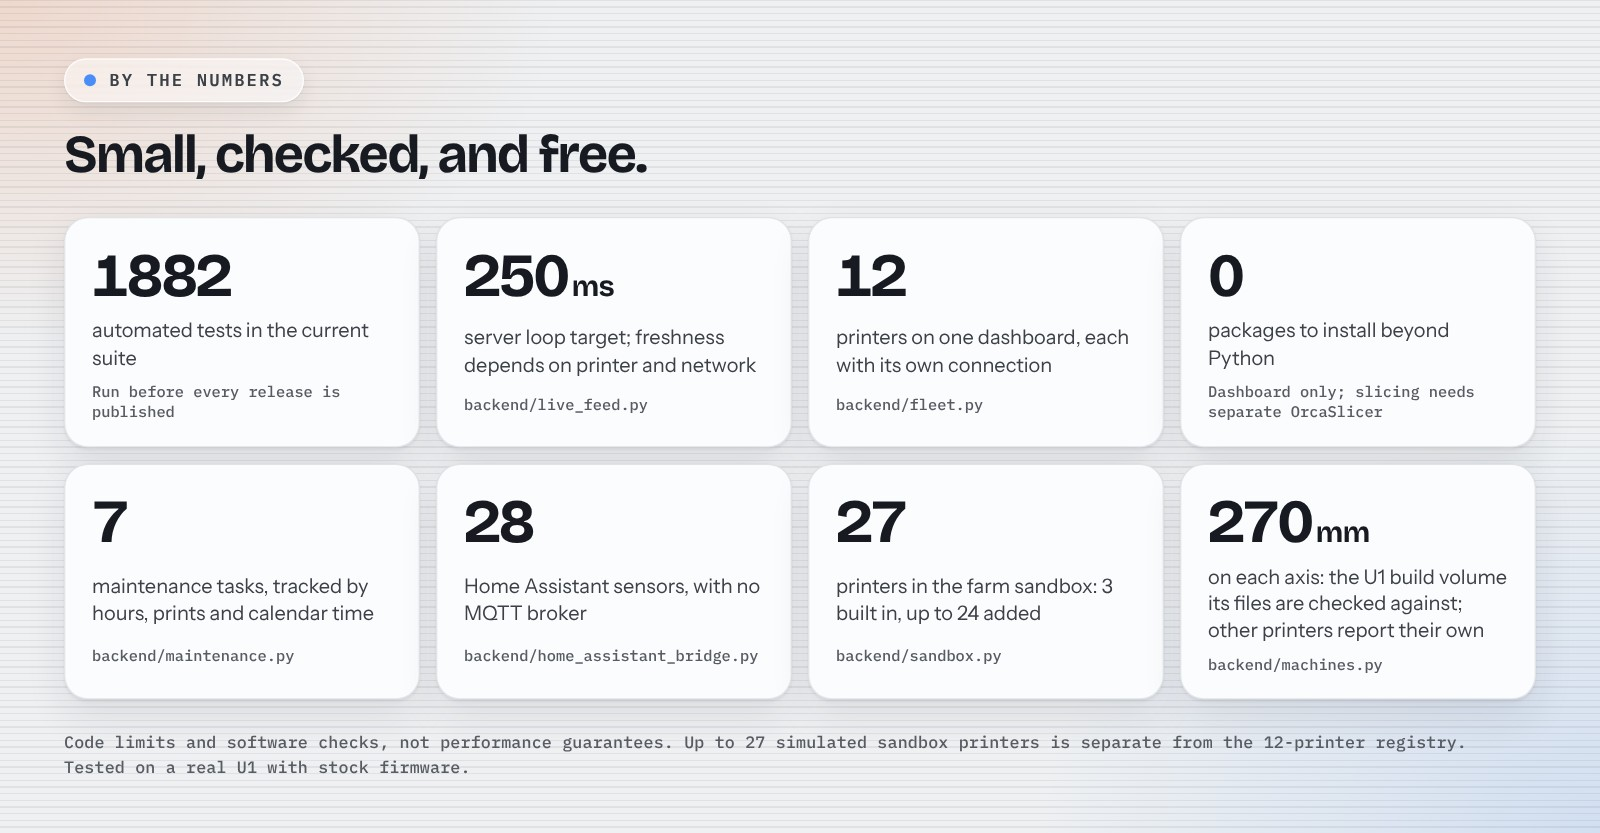
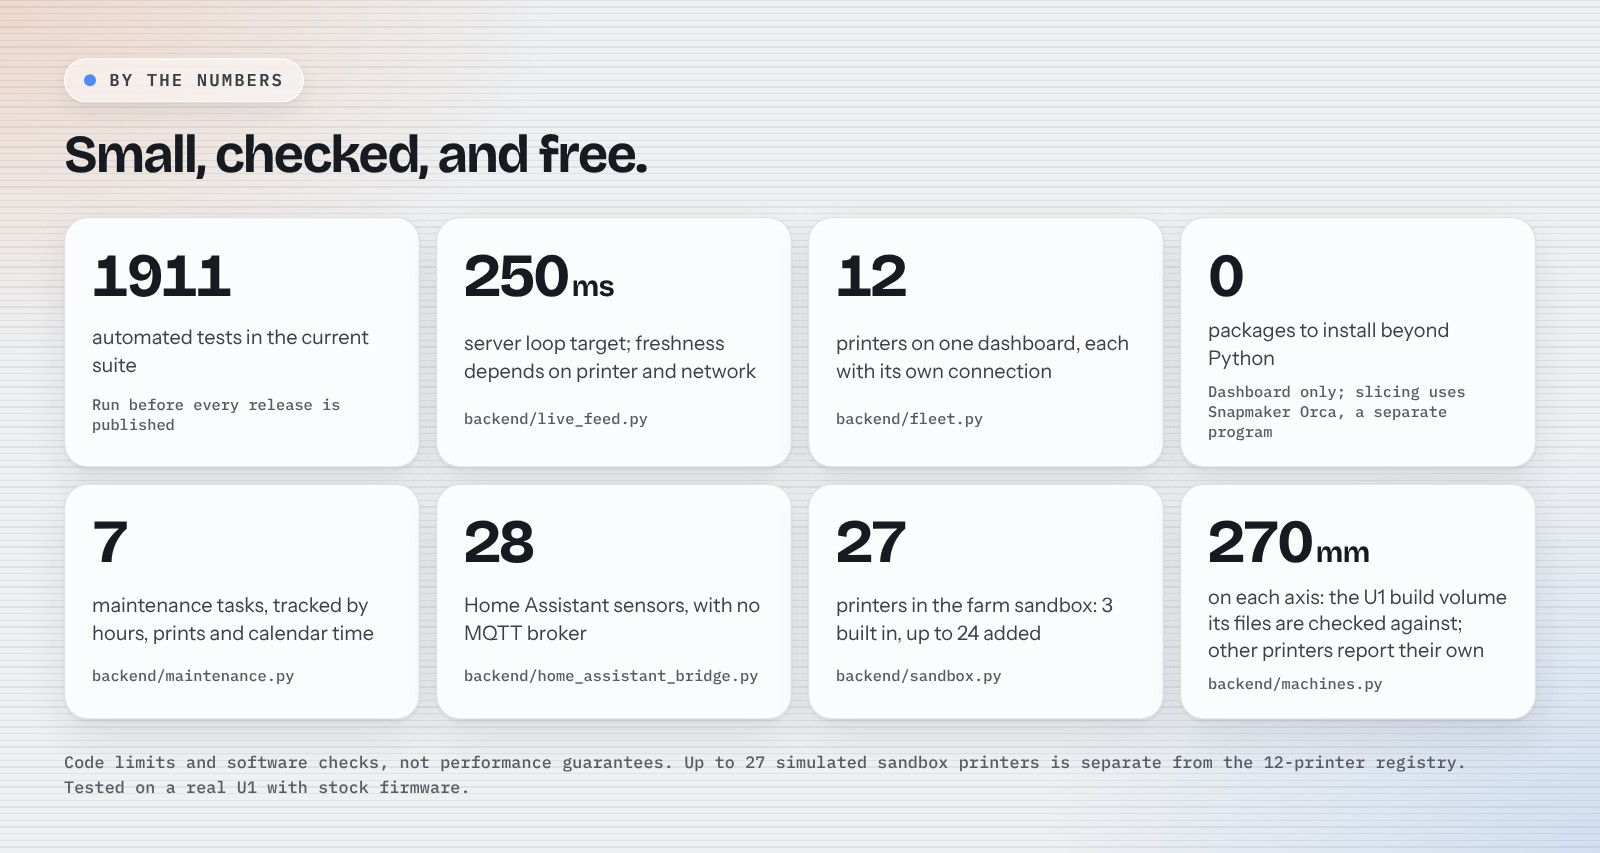
Slicer: keep the plate when the page reloads at once, fix tests that named the old screens, refresh the explainer boards
A reload or a closed tab right after a change now writes the waiting project
save first. The browser walk checks the Slicer instead of the old set-up card,
the settings-file test replaces the path where it is read, the stylesheet
order test lists slicer.css, tester code pointers name existing files, and the
By the numbers and What's in it boards show the new count and the Slicer.

Claude-Session: https://claude.ai/code/session_014V6s4t5RBwsf8ByAcpE2F9

diff --git a/tools/readme-images/boards.html b/tools/readme-images/boards.html
@@ -278,7 +278,7 @@ h2{font:700 40px/1.06 "Bricolage Grotesque";letter-spacing:-.03em;margin-top:18p
   <p class="lede">Core app: Python and a browser. Tested on a real U1 with stock firmware.</p>
   <div class="groups">
     <div class="group" style="--c:var(--g-live)"><header><h3>Watch the fleet</h3></header><span class="needs">Reported printer state</span><ul><li>Needs you: faults and paused jobs</li><li>Progress and finish estimates</li><li>3D twin and drawing</li><li>Up to 12 registered printers</li></ul></div>
-    <div class="group" style="--c:var(--g-ready)"><header><h3>Prepare a plate</h3></header><span class="needs">Separate compatible engine</span><ul><li>STL, OBJ and supported 3MF</li><li>Object edits and T0–T3 assignments</li><li>Profiles and per-object settings</li><li>Select one source-project plate</li></ul></div>
+    <div class="group" style="--c:var(--g-ready)"><header><h3>Slice on the U1's plate</h3></header><span class="needs">Snapmaker Orca (a separate program)</span><ul><li>STL, OBJ and supported 3MF</li><li>Object edits and T0–T3 assignments</li><li>118 print settings, a layer height per head</li><li>Preview the layers before Confirm Print</li></ul></div>
     <div class="group" style="--c:var(--g-farm)"><header><h3>Inspect before starting</h3></header><span class="needs">File and printer checks</span><ul><li>Layers, tools and requested speeds</li><li>Pre-flight with line references</li><li>Confirm Print rechecks at start</li><li>Blocked output stays inspectable</li></ul></div>
     <div class="group" style="--c:var(--g-opt)"><header><h3>Add your own services</h3></header><span class="needs">Configure when needed</span><ul><li>Notifications and automations</li><li>Spoolman import and inventory</li><li>WLED and Home Assistant</li><li>Camera bridges and remote access</li></ul></div>
     <div class="group" style="--c:var(--g-pend)"><header><h3>What comes next</h3></header><span class="needs">Tested on a real U1; hardware in progress</span><ul><li>Colour checker hardware in progress</li><li>Dock-ring drivers in progress</li><li>Colour accuracy bench test next</li><li>More vendor paint and textures</li></ul></div>
@@ -295,7 +295,7 @@ h2{font:700 40px/1.06 "Bricolage Grotesque";letter-spacing:-.03em;margin-top:18p
     <div class="tile"><b>1911</b><span>automated tests in the current suite</span><em>Run before every release is published</em></div>
     <div class="tile"><b>250<small>ms</small></b><span>server loop target; freshness depends on printer and network</span><em>backend/live_feed.py</em></div>
     <div class="tile"><b>12</b><span>printers on one dashboard, each with its own connection</span><em>backend/fleet.py</em></div>
-    <div class="tile"><b>0</b><span>packages to install beyond Python</span><em>Dashboard only; slicing needs separate OrcaSlicer</em></div>
+    <div class="tile"><b>0</b><span>packages to install beyond Python</span><em>Dashboard only; slicing uses Snapmaker Orca, a separate program</em></div>
     <div class="tile"><b>7</b><span>maintenance tasks, tracked by hours, prints and calendar time</span><em>backend/maintenance.py</em></div>
     <div class="tile"><b>28</b><span>Home Assistant sensors, with no MQTT broker</span><em>backend/home_assistant_bridge.py</em></div>
     <div class="tile"><b>27</b><span>printers in the farm sandbox: 3 built in, up to 24 added</span><em>backend/sandbox.py</em></div>

diff --git a/tools/browser-walk.js b/tools/browser-walk.js
@@ -21,7 +21,7 @@
  * Workflows (demo data, both widths): import a file through the file picker; open every sample G-code file
  * in Confirm Print and check the verdict is complete and that "blocked" really disables Start; a slow answer
  * for an earlier file must not replace the one on screen; add to and remove from the queue; open a model;
- * the slicer set-up card; the phone pairing sheet; the colour sensor on a stand-in printer (tools/stand-in-printer.py):
+ * the Slicer and its Engine button; the phone pairing sheet; the colour sensor on a stand-in printer (tools/stand-in-printer.py):
  * assign it, record a white reference with the real button, and see the sensor beside the file's and the printer's
  * colours in Confirm Print; text from files, printers, spools and notes shows as plain text (script payloads are
  * planted in each, after a control that proves the check can see an injection).
@@ -342,24 +342,24 @@ const FLOWS = [
   ['open a model', async s => {
     const { page } = s;
     await openFileNamed(page, 'spur_gear_24t.stl');
-    await page.waitForFunction(() => /Object settings/.test(document.getElementById('fd-side').innerText), null, { timeout: 15000 }).catch(() => {});
+    await page.waitForFunction(() => /Open in Slicer/.test(document.getElementById('fd-side').innerText), null, { timeout: 15000 }).catch(() => {});
     const side = await page.evaluate(() => document.getElementById('fd-side').innerText);
-    s.check(/Object settings/.test(side), 'the model panel did not finish loading: "' + side.slice(0, 50).replace(/\s+/g, ' ') + '"');
+    s.check(/Open in Slicer/.test(side), 'the model panel did not finish loading: "' + side.slice(0, 50).replace(/\s+/g, ' ') + '"');
     s.check(await page.evaluate(() => !!document.getElementById('fd-canvas')), 'no 3D view');
   }],
 
-  ['the slicer set-up card', async s => {
+  ['the Slicer and its engine', async s => {
     const { page } = s;
     await page.evaluate(() => {
       location.hash = '#/slice';
     });
-    await page.waitForTimeout(900);
+    await page.waitForFunction(() => { const d = document.getElementById('sl-dock'); return d && d.offsetParent && d.querySelectorAll('button').length >= 2; }, null, { timeout: 10000 }).catch(() => {});
     const info = await page.evaluate(() => {
-      const e = document.getElementById('slice-ready');
-      return { visible: !!(e && e.offsetParent), buttons: e ? e.querySelectorAll('button').length : 0, text: e ? e.innerText : '' };
+      const e = document.getElementById('sl-engine-btn'), d = document.getElementById('sl-dock');
+      return { engine: !!(e && e.offsetParent), words: e ? e.innerText : '', dock: !!(d && d.offsetParent), buttons: d ? d.querySelectorAll('button').length : 0 };
     });
-    s.check(info.visible && info.text.length > 60, 'the slicer set-up card is empty or hidden');
-    s.check(info.buttons >= 1, 'the slicer set-up card offers no button');
+    s.check(info.dock && info.engine && info.words.length > 3, 'the Slicer or its Engine button is empty or hidden');
+    s.check(info.buttons >= 2, 'the Slicer offers no controls: ' + JSON.stringify(info));
   }],
 
   ['the phone pairing sheet', async s => {

diff --git a/frontend/slicer-prepare.js b/frontend/slicer-prepare.js
@@ -626,15 +626,20 @@
      opens again. An object that was only read from a file on this computer has no copy to come back to, so it is left out. */
   const PKEY = 'dejavu1.slicer.project';
   let saveTimer = 0;
+  function writeProject() {
+    const m = P();
+    if (!m) return;
+    const rows = m.objects.filter(o => o.sourceName && !o.local).map(o => ({ source: o.sourceName, name: o.name, file: o.file, transform: o.transform, tool: o.tool, settings: o.settings, plate: o.plate, hidden: o.hidden, aside: o.aside }));
+    try { store.set(PKEY, JSON.stringify({ v: 1, plates: m.plates, current: m.current, rows })); } catch (_) { /* no storage */ }
+  }
   function saveProject() {
     clearTimeout(saveTimer);
-    saveTimer = setTimeout(() => {
-      const m = P();
-      if (!m) return;
-      const rows = m.objects.filter(o => o.sourceName && !o.local).map(o => ({ source: o.sourceName, name: o.name, file: o.file, transform: o.transform, tool: o.tool, settings: o.settings, plate: o.plate, hidden: o.hidden, aside: o.aside }));
-      try { store.set(PKEY, JSON.stringify({ v: 1, plates: m.plates, current: m.current, rows })); } catch (_) { /* no storage */ }
-    }, 600);
+    saveTimer = setTimeout(writeProject, 400);
   }
+  // A reload or a closed tab right after a change must not lose it, so a waiting save is written the moment the page is left.
+  const flushProject = () => { if (saveTimer) { clearTimeout(saveTimer); saveTimer = 0; writeProject(); } };
+  window.addEventListener('pagehide', flushProject);
+  document.addEventListener('visibilitychange', () => { if (document.visibilityState === 'hidden') flushProject(); });
   async function restoreProject() {
     let saved = null;
     try { saved = JSON.parse(store.get(PKEY) || 'null'); } catch (_) { saved = null; }
@@ -662,5 +667,5 @@
   }
   SL.restoreProject = restoreProject;
 
-  SL.prepare = { build, bindScene, bindObjects, saveProject, afterChange, renderObjects, renderInspector, renderProblems, renderPlates, renderEmpty, refreshTools, syncScene, onKey, setTool, note, toggleOverhang, TOWER_ID };
+  SL.prepare = { build, bindScene, bindObjects, saveProject, flushProject, afterChange, renderObjects, renderInspector, renderProblems, renderPlates, renderEmpty, refreshTools, syncScene, onKey, setTool, note, toggleOverhang, TOWER_ID };
 })();

diff --git a/frontend/slicer-scene.js b/frontend/slicer-scene.js
@@ -26,7 +26,7 @@ window.SliceScene = (() => {
   /* ---- matrices (column-major, as the graphics card wants them) ---------------------------------------------------------------- */
   const mat = {
     identity: () => [1, 0, 0, 0, 0, 1, 0, 0, 0, 0, 1, 0, 0, 0, 0, 1],
-    /* an object's transform is 12 numbers, the way plate.js keeps it: three rows of the turn and scale, then the move */
+    /* an object's transform is 12 numbers, the way plate_project.py keeps it: three rows of the turn and scale, then the move */
     fromTransform(t) { return [t[0], t[1], t[2], 0, t[3], t[4], t[5], 0, t[6], t[7], t[8], 0, t[9], t[10], t[11], 1]; },
     translate(x, y, z) { const m = mat.identity(); m[12] = x; m[13] = y; m[14] = z; return m; },
     scale(x, y, z) { const m = mat.identity(); m[0] = x; m[5] = y; m[10] = z; return m; },

diff --git a/tools/slicer-check.js b/tools/slicer-check.js
@@ -301,7 +301,7 @@ async function main() {
     {
       const c3 = await open(browser, server.base, { width: 1366, height: 800 });
       await c3.page.evaluate(async () => { await SL.openFromLibrary('3dbenchy.stl'); const m = SL.state.model; m.place(m.objects[0].id, { x: 100, y: 90 }); m.setTool([m.objects[0].id], 2); });
-      await c3.page.waitForTimeout(1200);
+      await c3.page.waitForFunction(() => { try { return /"tool":2/.test(localStorage.getItem('dejavu1.slicer.project') || ''); } catch (e) { return false; } }, null, { timeout: 15000 }).catch(() => {});
       await c3.page.reload({ waitUntil: 'domcontentloaded' });
       await c3.page.waitForFunction(() => window.SL && SL.state.model && SL.state.model.onPlate().length === 1, null, { timeout: 25000 }).catch(() => {});
       const back = await model(c3.page);

diff --git a/frontend/viewer3d.js b/frontend/viewer3d.js
@@ -763,7 +763,7 @@ const DV3D = (() => {
         this.draw();
       }, { passive: false });
       c.addEventListener('keydown', (e) => {
-        if (e.shiftKey || e.ctrlKey || e.metaKey || e.altKey) return;   // Shift + arrows move a plate object (plate.js)
+        if (e.shiftKey || e.ctrlKey || e.metaKey || e.altKey) return;   // Shift + arrows move a plate object (the Slicer's own keys)
         const step = { ArrowLeft: [-.12, 0], ArrowRight: [.12, 0], ArrowUp: [0, .08], ArrowDown: [0, -.08] }[e.key];
         if (step) { e.preventDefault(); this.yaw += step[0]; this.pitch = Math.max(-0.2, Math.min(1.5, this.pitch + step[1])); this.draw(); }
         if (e.key === '+' || e.key === '=') { this.dist *= 0.9; this.draw(); }

diff --git a/frontend/slicer-model.js b/frontend/slicer-model.js
@@ -2,7 +2,7 @@
  * every check that says what is wrong with the plate before it is sliced. No graphics and no network here, so it can be tested alone
  * (tests/test_slicer_model.py runs it in Node).
  *
- * An object's transform is 12 numbers, as plate.js and the server's plate_project.py keep it: three rows (the turn and size) and a
+ * An object's transform is 12 numbers, as the server's plate_project.py keeps it: three rows (the turn and size) and a
  * move, applied as  point' = point x rows + move. Moves and turns are made about the middle of the object's box.
  *
  * What it does not do: slicing, and the engine's own arranging and orienting (the server asks the engine for those). The packing

diff --git a/tools/check-native-studio.js b/tools/check-native-studio.js
@@ -1,4 +1,4 @@
-/* Historical stock-2.4.2 fixture check; current workflow: tools/check-slicer-workspace.js.
+/* Historical stock-2.4.2 fixture check; current workflow: tools/slicer-check.js.
    Development checks: node tools/check-native-studio.js URL OUTPUT_DIR */
 const {chromium}=require('playwright'),fs=require('fs'),assert=require('assert');
 const base=process.argv[2]||'http://localhost:8791',out=process.argv[3]||'/tmp/dejavu-evidence';

diff --git a/tests/test_slicer_working.py b/tests/test_slicer_working.py
@@ -16,6 +16,7 @@ from unittest.mock import patch
 sys.path.insert(0, str(Path(__file__).resolve().parent.parent / "backend"))
 
 import slicer_bridge  # noqa: E402
+import slicer_bridge_part1  # noqa: E402
 import slicer_profiles  # noqa: E402
 import slicer_working as work  # noqa: E402
 import tool_setup  # noqa: E402
@@ -40,11 +41,12 @@ class WorkingProfile(unittest.TestCase):
         self.write("process-other", {"type": "process", "name": "0.20mm Standard @Snapmaker U1 (0.6 nozzle)", "instantiation": "true", "layer_height": ".2",
                                      "compatible_printers": ["Snapmaker U1 (0.6 nozzle)"]})
         self.write("pla", {"type": "filament", "name": "Generic PLA @U1", "instantiation": "true", "filament_type": ["PLA"], "compatible_printers": ["Snapmaker U1 (0.4 nozzle)"]})
-        for target, value in ((slicer_bridge, "_DATA_DIR"), (slicer_profiles, "_DATA_DIR"), (tool_setup, "_DATA_DIR")):
+        # the settings file is read by functions in slicer_bridge_part1, so that is the module whose names are replaced
+        for target, value in ((slicer_bridge_part1, "_DATA_DIR"), (slicer_profiles, "_DATA_DIR"), (tool_setup, "_DATA_DIR")):
             p = patch.object(target, value, str(root / "data"))
             p.start()
             self.addCleanup(p.stop)
-        for target, name, value in ((slicer_bridge, "_PATH", str(root / "data" / "slicer.json")), (slicer_bridge, "_RECEIPTS", str(root / "data" / "r.json")),
+        for target, name, value in ((slicer_bridge_part1, "_PATH", str(root / "data" / "slicer.json")), (slicer_bridge_part1, "_RECEIPTS", str(root / "data" / "r.json")),
                                     (tool_setup, "_PATH", str(root / "data" / "tool_setup.json"))):
             p = patch.object(target, name, value)
             p.start()

diff --git a/backend/tester_report_part4.py b/backend/tester_report_part4.py
@@ -60,7 +60,7 @@ ROUTE_CODE = (("/api/printer/control/", ["backend/printer_control.py"]), ("/api/
 AREA_CODE = {"Overview": ["frontend/telemetry.js", "frontend/app-shell.js"], "Printers": ["frontend/desk.js", "frontend/workshop-part5.js"],
              "Printer page": ["frontend/workshop-part2.js", "frontend/workshop-part3.js", "frontend/workshop-part5.js"],
              "Files": ["frontend/workshop-part5.js", "frontend/gcode-view.js"],
-             "Slicing": ["frontend/farm-part1.js", "frontend/slicer-workspace.js", "frontend/plate.js"],
+             "Slicing": ["frontend/slicer-prepare.js", "frontend/slicer-settings.js", "frontend/slicer-preview.js"],
              "Queue": ["frontend/workshop-part4.js", "frontend/farm-part1.js"], "Filament": ["frontend/app-print.js"],
              "Maintenance": ["frontend/app-modules.js", "frontend/logbook.js"], "Settings": ["frontend/app-modules.js"],
              "Insights": ["frontend/insights.js"], "Care log": ["frontend/logbook.js"], "Camera": ["frontend/workshop-part3.js"],

diff --git a/tests/test_dark_theme.py b/tests/test_dark_theme.py
@@ -41,7 +41,7 @@ class TestDarkTheme(unittest.TestCase):
         head = INDEX[:INDEX.index("</head>")]
         self.assertIn('<script src="theme-boot.js"></script>', head)
         sheets = re.findall(r'<link rel="stylesheet" href="([^"]+)"', head)
-        self.assertEqual(sheets[-7:], ["dark.css", "shell.css", "shell-panes.css", "cockpit.css", "glass.css", "text.css", "looks.css"])   # the frame (shell.css) restyles after dark
+        self.assertEqual(sheets[-8:], ["dark.css", "shell.css", "shell-panes.css", "cockpit.css", "slicer.css", "glass.css", "text.css", "looks.css"])   # the frame (shell.css) restyles after dark
         self.assertLess(head.index('href="dark.css"'), head.index("theme-boot.js"))
         boot = read("theme-boot.js")
         self.assertNotIn("defer", INDEX[INDEX.index("theme-boot.js") - 40:INDEX.index("theme-boot.js") + 20])

diff --git a/tests/test_slicer_bridge.py b/tests/test_slicer_bridge.py
@@ -791,7 +791,7 @@ class TestWhyItFailed(SlicerBridgeTest):
         self.assertIsNone(report["run"])
         self.assertEqual(report["stage"]["label"], "Checking the presets")
         self.assertEqual(report["output"]["status"], "none")
-        self.assertIn("Profiles", job["cause"]["fixes"][0])
+        self.assertIn("Open the Slicer", job["cause"]["fixes"][0])
 
     def test_the_report_names_what_came_out_when_the_engine_wrote_nothing_useful(self):
         for mode, status in (("no_output", "no_plate_files"), ("empty", "empty"), ("nothing_printable", "no_layers")):
